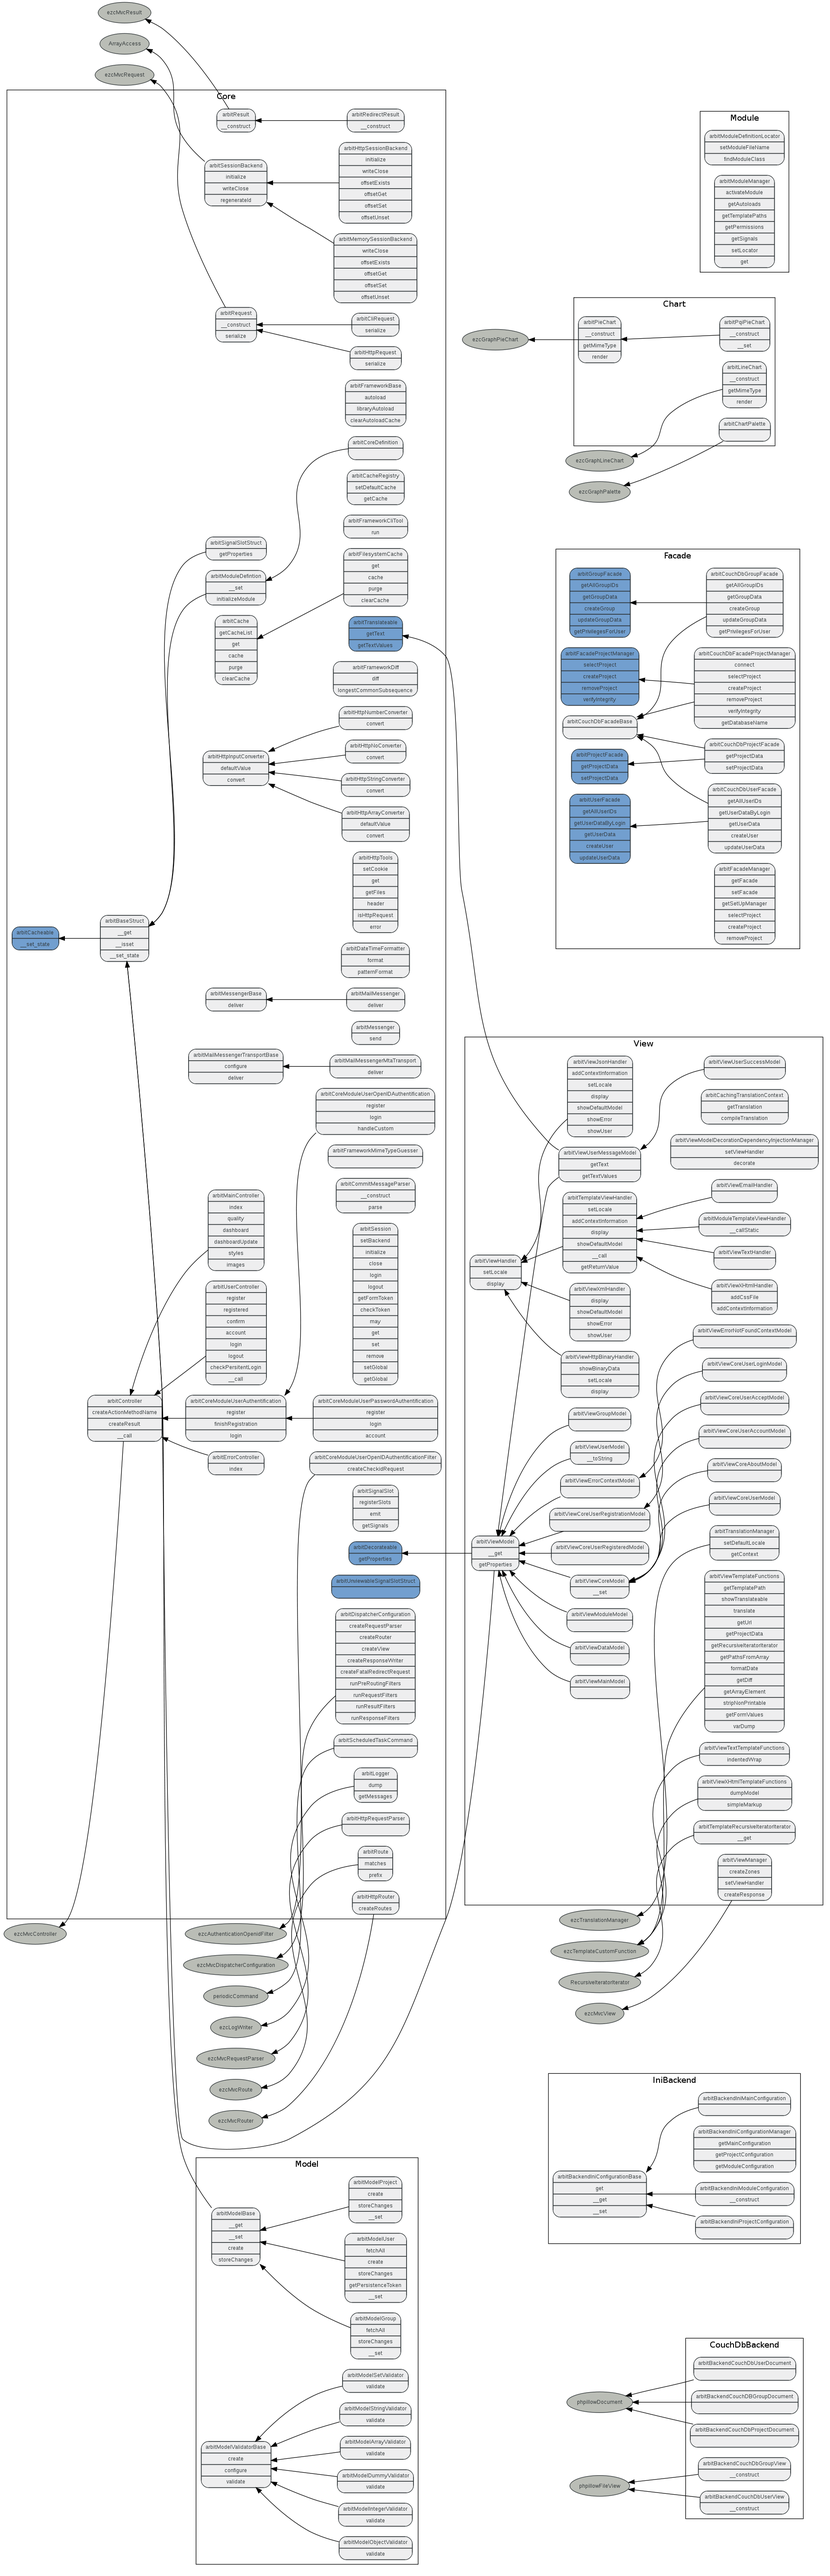
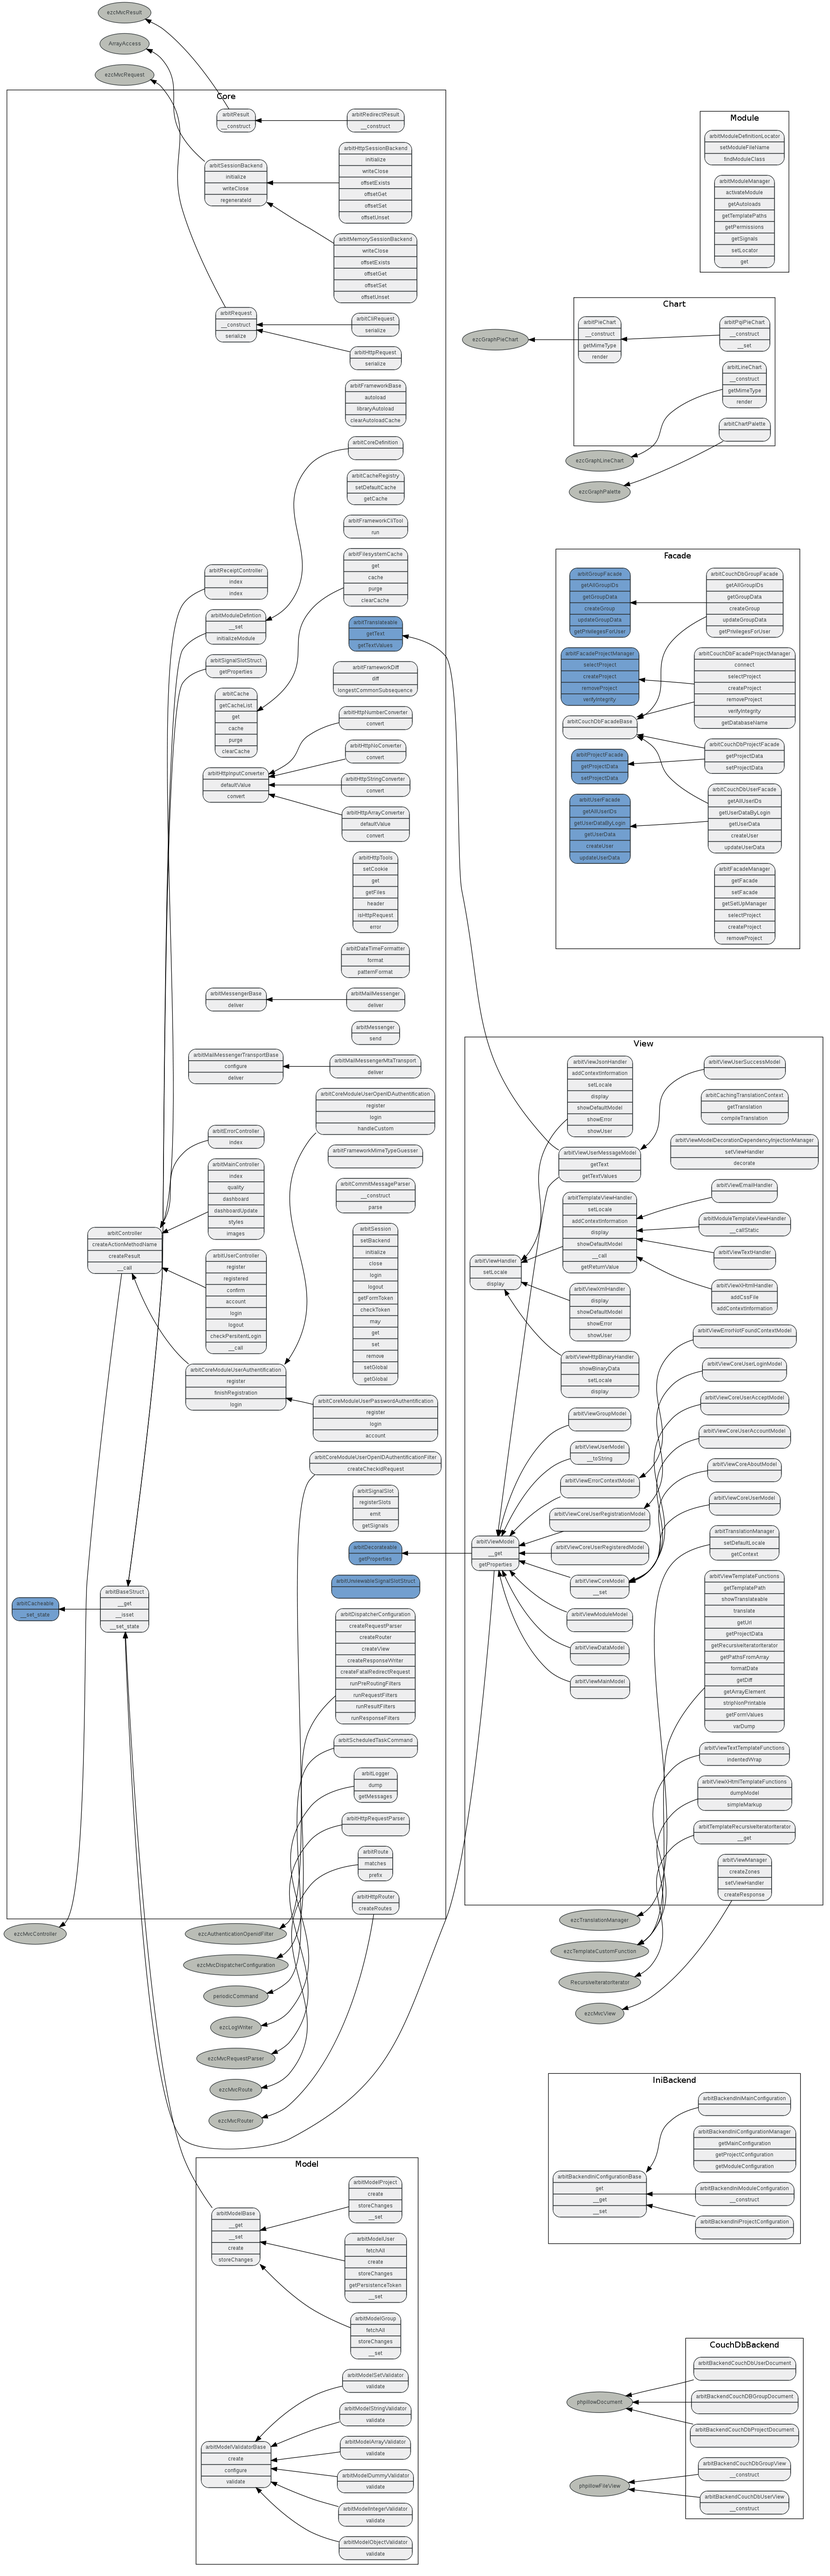
- Added: Receipt controller stub

diff --git a/classes/controller/receipts.php b/classes/controller/receipts.php
@@ -1,6 +1,6 @@
 <?php
 /**
- * Arbit HTTP base router
+ * arbit core controller
  *
  * This file is part of arbit.
  *
@@ -23,32 +23,39 @@
  */
 
 /**
- * Arbit HTTP base router
+ * Main controller for the arbit project tracker, implementing all user and
+ * group related functionality.
  *
  * @package Core
  * @version $Revision: 1236 $
  * @license http://www.gnu.org/licenses/gpl-3.0.txt GPL
  */
-class arbitHttpRouter extends ezcMvcRouter
+class arbitReceiptController extends arbitController
 {
     /**
-     * User implemented method that should provide all the routes.
+     * Index action
      *
-     * It should return an array of objects that implement the ezcMvcRoute
-     * interface. This could be objects of the ezcMvcRegexpRoute class for
-     * example.
+     * Dispatches to the default action
      *
-     * @return array(ezcMvcRoute)
+     * @param arbitRequest $request
+     * @return arbitViewModel
      */
-    public function createRoutes()
+    public function index( arbitRequest $request )
     {
-        $this->routes[] = new arbitRoute( 'core', 'arbitMainController' );
-        $this->routes[] = new arbitRoute( 'user', 'arbitUserController' );
-        $this->routes[] = new arbitRoute( 'receipts', 'arbitReceiptController' );
-        $this->routes[] = new arbitRoute( 'error', 'arbitErrorController' );
-        arbitCacheRegistry::setCache( 'core' );
+        return $this->overview( $request );
+    }
 
-        return $this->routes;
+    /**
+     * Overview action
+     *
+     * Gives an overview on the currently available receipts
+     *
+     * @param arbitRequest $request
+     * @return arbitViewModel
+     */
+    public function overview( arbitRequest $request )
+    {
+        return new arbitViewUserMessageModel( 'Hello Receipts!' );
     }
 }
 

diff --git a/classes/autoload.php b/classes/autoload.php
@@ -51,6 +51,7 @@ return array(
     'arbitExceptionNotFoundMarker'                       => 'classes/framework/exception_marker.php',
     'arbitControllerUnknownActionException'              => 'classes/controller/exception.php',
     'arbitMainController'                                => 'classes/controller/main.php',
+    'arbitReceiptController'                             => 'classes/controller/receipts.php',
     'arbitResult'                                        => 'classes/controller/result.php',
     'arbitRedirectResult'                                => 'classes/controller/redirect.php',
     'arbitUserController'                                => 'classes/controller/user.php',
